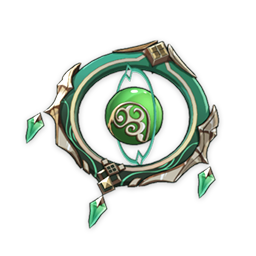
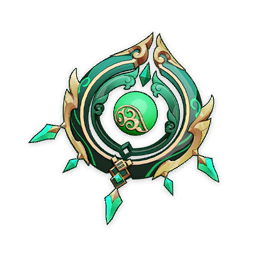
Updated weapon image & data for Genshin Impact 4.0

Changed region(s): [[0.0938, 0.125, 0.875, 0.9062]]

diff --git a/data/weapons.js b/data/weapons.js
@@ -495,6 +495,19 @@ weaponsInfo = {
             "res_icon": "UI_EquipIcon_Catalyst_Alaya.png"
         },
 
+        //Extra 9? - Pledge
+        {
+            "id": "bw_pledge",
+            "class": "limited",
+            "version": "4.0f",
+            "rarity": "5",
+            "type": "bow",
+            "serise": "standalone",
+            "continent": "fontaine",
+            "favority": ["lyney"],
+            "res_icon": "UI_EquipIcon_Bow_Pledge.png"
+        },
+
 
         {
             "id": "reserved",

diff --git a/data/locale_ko-kr.js b/data/locale_ko-kr.js
@@ -326,6 +326,7 @@ This language works by Esterisk (에스터1z / Ester1z)\n\
         "cm_deshret": { "name": "갈대 바다의 표지", "aliases": [""] },
         "pl_deshret": { "name": "적색 사막의 지팡이", "aliases": ["적사지"] },
         "ct_alaya": { "name": "툴레이툴라의 기억", "aliases": ["툴툴"] },
+        "bw_pledge": { "name": "최초의 대마술", "aliases": ["마술", "마술활"] },
         "reserved": { "name": "", "aliases": [""] }
     }
 }

diff --git a/data/locale_en-global.js b/data/locale_en-global.js
@@ -326,6 +326,7 @@ This language works by Esterisk (에스터1z / Ester1z)\n\
         "cm_deshret": { "name": "Beacon of the Reed Sea", "aliases": [""] },
         "pl_deshret": { "name": "Staff of the Scarlet Sands", "aliases": [""] },
         "ct_alaya": { "name": "Tullaytullah’s Remembrance", "aliases": [""] },
+        "bw_pledge": { "name": "The First Great Magic", "aliases": [""] },
         "reserved": { "name": "", "aliases": [""] }
     }
 }
